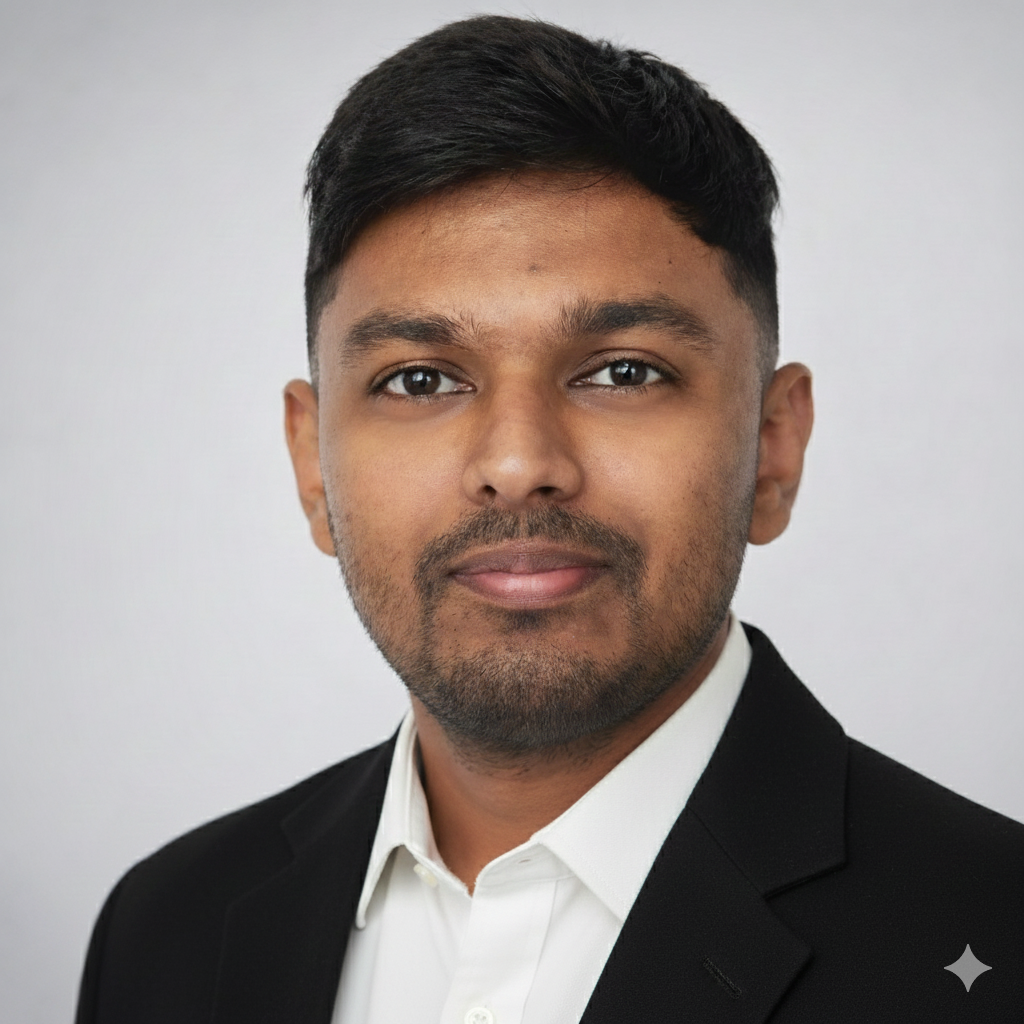
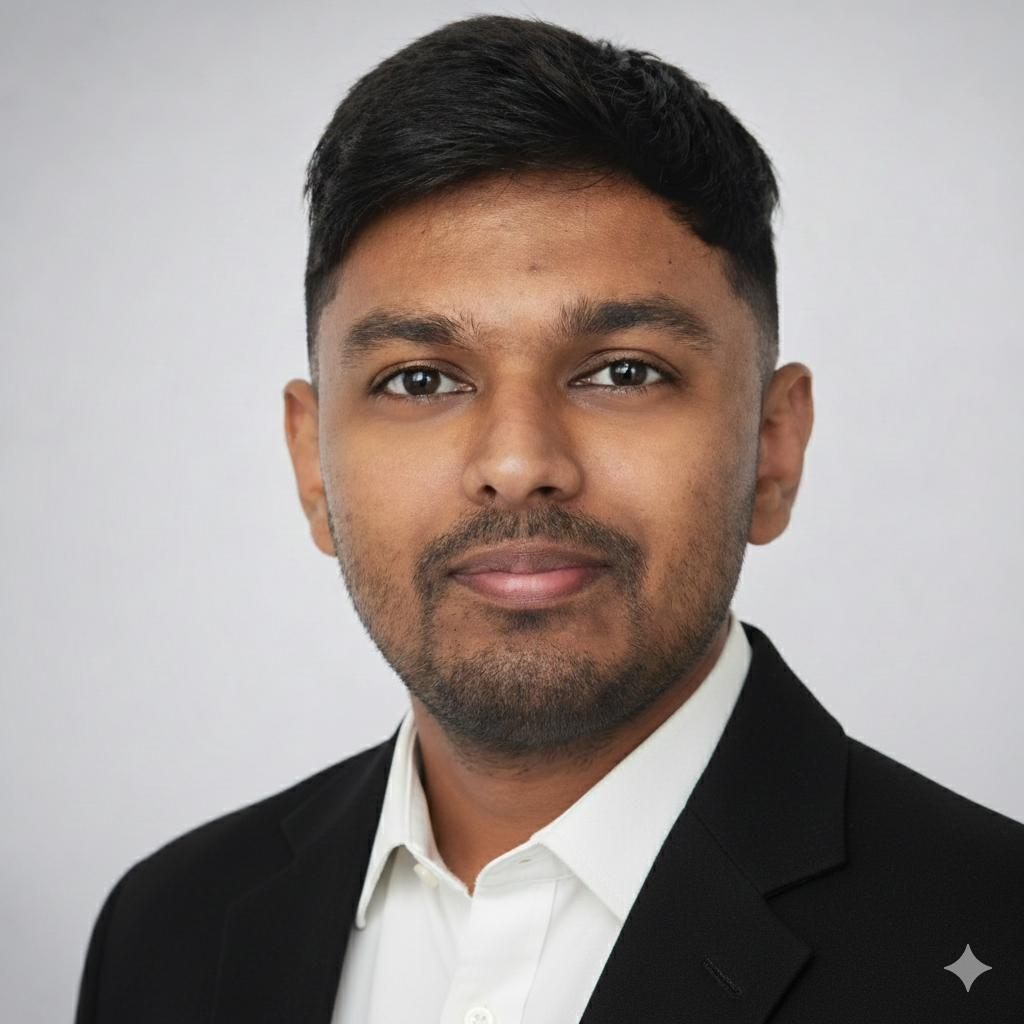
Add files via upload

diff --git a/index.html b/index.html
@@ -148,6 +148,39 @@ h3{font-family:'Spectral',serif;font-weight:600;font-size:1.35rem;line-height:1.
   background:var(--accent-soft);border-radius:0 6px 6px 0;
   font-size:.85rem;color:var(--muted);
 }
+.fig{
+  margin:20px 0 6px;border:1px solid var(--line);border-radius:8px;
+  background:#FBFCFE;padding:18px 16px 8px;overflow-x:auto;
+}
+.fig svg{display:block;margin:0 auto;max-width:100%;height:auto}
+.fig .cap{
+  font-family:'IBM Plex Mono',monospace;font-size:.7rem;color:var(--muted);
+  text-align:center;padding:10px 6px 6px;letter-spacing:.03em;
+}
+.photo-slot{
+  margin:16px 0 4px;border:1.5px dashed var(--accent-2);border-radius:8px;
+  min-height:70px;display:flex;align-items:center;justify-content:center;
+  background:var(--accent-soft);position:relative;overflow:hidden;
+}
+.photo-slot img{width:100%;display:block;border-radius:7px}
+.photo-slot .hint{
+  font-family:'IBM Plex Mono',monospace;font-size:.7rem;color:var(--accent);
+  text-align:center;padding:16px;
+}
+.photo-slot img[data-loaded]~.hint{display:none}
+.imgrow{display:grid;grid-template-columns:1fr 1fr;gap:14px;margin:18px 0 6px}
+.imgrow.tri{grid-template-columns:1fr 1fr 1fr}
+.imgrow figure{margin:0;border:1px solid var(--line);border-radius:8px;overflow:hidden;background:#fff}
+.imgrow img{width:100%;height:190px;object-fit:cover;display:block}
+.imgrow figcaption{
+  font-family:'IBM Plex Mono',monospace;font-size:.68rem;color:var(--muted);
+  padding:8px 10px;border-top:1px solid var(--line);
+}
+@media (max-width:820px){.imgrow,.imgrow.tri{grid-template-columns:1fr}}
+.svg-lbl{font-family:'IBM Plex Mono',monospace;font-size:11px;fill:#5A6472}
+.svg-lbl-a{font-family:'IBM Plex Mono',monospace;font-size:11px;fill:#3D4EC9}
+.svg-box{fill:#fff;stroke:#D9DDE4;stroke-width:1.5;rx:6}
+.svg-box-a{fill:#E8EAFB;stroke:#3D4EC9;stroke-width:1.5;rx:6}
 .mini-grid{display:grid;grid-template-columns:1fr 1fr;gap:20px;margin-top:8px}
 .mini{
   background:var(--card);border:1px solid var(--line);border-radius:var(--radius);
@@ -299,6 +332,74 @@ footer{
            alignment with tilt control, active thermal management under the sensor, and integration into
            an industrial production control platform.</p>
 
+        <div class="fig">
+          <svg viewBox="0 0 640 240" role="img" aria-label="Schematic of the dual-illumination test bench concept">
+            <!-- telecentric source -->
+            <rect x="20" y="80" width="110" height="44" class="svg-box"/>
+            <text x="75" y="99" text-anchor="middle" class="svg-lbl">Telecentric</text>
+            <text x="75" y="113" text-anchor="middle" class="svg-lbl">illuminator</text>
+            <!-- collimated beam -->
+            <line x1="130" y1="92" x2="330" y2="92" stroke="#3D4EC9" stroke-width="2"/>
+            <line x1="130" y1="102" x2="330" y2="102" stroke="#3D4EC9" stroke-width="2"/>
+            <line x1="130" y1="112" x2="330" y2="112" stroke="#3D4EC9" stroke-width="2"/>
+            <!-- 45 deg mirror -->
+            <line x1="315" y1="70" x2="365" y2="130" stroke="#12161C" stroke-width="4"/>
+            <text x="392" y="72" text-anchor="middle" class="svg-lbl">45° mirror</text>
+            <!-- redirected beam down -->
+            <line x1="330" y1="100" x2="330" y2="185" stroke="#3D4EC9" stroke-width="2"/>
+            <line x1="340" y1="108" x2="340" y2="185" stroke="#3D4EC9" stroke-width="2"/>
+            <line x1="350" y1="118" x2="350" y2="185" stroke="#3D4EC9" stroke-width="2"/>
+            <!-- dome -->
+            <path d="M 220 190 A 120 120 0 0 1 460 190" fill="none" stroke="#7A8AF0" stroke-width="5"/>
+            <text x="480" y="120" class="svg-lbl-a">LED dome</text>
+            <text x="480" y="134" class="svg-lbl-a">(uniform field)</text>
+            <!-- dome aperture -->
+            <line x1="318" y1="70" x2="362" y2="70" stroke="#FBFCFE" stroke-width="8"/>
+            <!-- sensor -->
+            <rect x="295" y="188" width="90" height="14" fill="#12161C" rx="2"/>
+            <text x="340" y="222" text-anchor="middle" class="svg-lbl">image sensor (bare die, cooled mount)</text>
+            <!-- stage -->
+            <rect x="255" y="204" width="170" height="8" fill="#D9DDE4" rx="2"/>
+            <text x="120" y="180" class="svg-lbl">multi-axis alignment</text>
+            <text x="120" y="194" class="svg-lbl">+ tilt control</text>
+            <line x1="212" y1="188" x2="250" y2="200" stroke="#5A6472" stroke-width="1" marker-end="none"/>
+          </svg>
+          <div class="cap">Fig. 1 · Concept schematic (original drawing): co-aligned dome and telecentric illumination sharing one optical axis, switchable without repositioning the sensor</div>
+        </div>
+
+        <div class="fig">
+          <svg viewBox="0 0 660 150" role="img" aria-label="EMVA 1288 processing pipeline">
+            <rect x="10" y="20" width="100" height="52" class="svg-box"/>
+            <text x="60" y="42" text-anchor="middle" class="svg-lbl">Dark / flat-field</text>
+            <text x="60" y="56" text-anchor="middle" class="svg-lbl">acquisition</text>
+            <line x1="110" y1="46" x2="138" y2="46" stroke="#5A6472" stroke-width="1.5"/>
+            <rect x="140" y="20" width="100" height="52" class="svg-box"/>
+            <text x="190" y="42" text-anchor="middle" class="svg-lbl">Photon transfer</text>
+            <text x="190" y="56" text-anchor="middle" class="svg-lbl">curve fit</text>
+            <line x1="240" y1="46" x2="268" y2="46" stroke="#5A6472" stroke-width="1.5"/>
+            <rect x="270" y="20" width="100" height="52" class="svg-box"/>
+            <text x="320" y="38" text-anchor="middle" class="svg-lbl">Gain · QE · SNR</text>
+            <text x="320" y="52" text-anchor="middle" class="svg-lbl">dyn. range</text>
+            <text x="320" y="66" text-anchor="middle" class="svg-lbl">linearity</text>
+            <line x1="370" y1="46" x2="398" y2="46" stroke="#5A6472" stroke-width="1.5"/>
+            <rect x="400" y="20" width="100" height="52" class="svg-box"/>
+            <text x="450" y="42" text-anchor="middle" class="svg-lbl">DSNU / PRNU</text>
+            <text x="450" y="56" text-anchor="middle" class="svg-lbl">decomposition</text>
+            <line x1="500" y1="46" x2="528" y2="46" stroke="#5A6472" stroke-width="1.5"/>
+            <rect x="530" y="20" width="118" height="52" class="svg-box-a"/>
+            <text x="589" y="38" text-anchor="middle" class="svg-lbl-a">Defect &amp; particle</text>
+            <text x="589" y="52" text-anchor="middle" class="svg-lbl-a">maps</text>
+            <text x="589" y="66" text-anchor="middle" class="svg-lbl-a">(MAD · Z-score)</text>
+            <text x="330" y="110" text-anchor="middle" class="svg-lbl">Python · NumPy vectorized · traceable to EMVA 1288 Release 4.0 · automated plot generation</text>
+          </svg>
+          <div class="cap">Fig. 2 · Evaluation pipeline from raw frames to standardized metrics and defect maps</div>
+        </div>
+
+        <div class="photo-slot">
+          <img src="img/thesis-setup.jpg" alt="Photo of the dual-illumination test bench" onerror="this.remove()">
+          <div class="hint">PHOTO SLOT · add img/thesis-setup.jpg once cleared by ficonTEC</div>
+        </div>
+
         <span class="lbl">What I built</span>
         <p>A Python-based EMVA 1288 evaluation pipeline covering photon transfer analysis, system gain,
            quantum efficiency, temporal noise, SNR, dynamic range, linearity, and DSNU/PRNU decomposition,
@@ -332,6 +433,36 @@ footer{
            image quality to alignment corrections. Built and tested opto-mechanical setups hands-on
            and worked directly on ficonTEC's production control platform, bridging alignment theory
            and machine-level implementation.</p>
+        <div class="fig">
+          <svg viewBox="0 0 640 190" role="img" aria-label="Active alignment concept loop">
+            <!-- target -->
+            <rect x="30" y="20" width="120" height="40" class="svg-box"/>
+            <text x="90" y="37" text-anchor="middle" class="svg-lbl">Test pattern /</text>
+            <text x="90" y="51" text-anchor="middle" class="svg-lbl">diffractive target</text>
+            <line x1="90" y1="60" x2="90" y2="88" stroke="#3D4EC9" stroke-width="2"/>
+            <!-- lens -->
+            <ellipse cx="90" cy="98" rx="34" ry="10" fill="#E8EAFB" stroke="#3D4EC9" stroke-width="1.5"/>
+            <text x="140" y="102" class="svg-lbl">lens module</text>
+            <line x1="90" y1="108" x2="90" y2="132" stroke="#3D4EC9" stroke-width="2"/>
+            <!-- sensor -->
+            <rect x="52" y="134" width="76" height="12" fill="#12161C" rx="2"/>
+            <text x="90" y="168" text-anchor="middle" class="svg-lbl">image sensor</text>
+            <!-- image quality -->
+            <line x1="130" y1="140" x2="228" y2="140" stroke="#5A6472" stroke-width="1.5"/>
+            <rect x="230" y="112" width="130" height="52" class="svg-box"/>
+            <text x="295" y="132" text-anchor="middle" class="svg-lbl">Image-quality</text>
+            <text x="295" y="146" text-anchor="middle" class="svg-lbl">metrics per field</text>
+            <line x1="360" y1="138" x2="428" y2="138" stroke="#5A6472" stroke-width="1.5"/>
+            <rect x="430" y="112" width="130" height="52" class="svg-box-a"/>
+            <text x="495" y="132" text-anchor="middle" class="svg-lbl-a">Alignment model</text>
+            <text x="495" y="146" text-anchor="middle" class="svg-lbl-a">(math. correction)</text>
+            <!-- feedback -->
+            <path d="M 495 110 L 495 50 L 200 50" fill="none" stroke="#3D4EC9" stroke-width="1.5" stroke-dasharray="5 4"/>
+            <path d="M 205 45 L 195 50 L 205 55 Z" fill="#3D4EC9"/>
+            <text x="350" y="42" text-anchor="middle" class="svg-lbl-a">multi-axis correction (x·y·z·θ) → re-measure</text>
+          </svg>
+          <div class="cap">Fig. 5 · Active alignment loop concept: measure image quality, compute correction, actuate, repeat</div>
+        </div>
         <div class="nda">Internal R&amp;D project; described at the concept level without proprietary implementation details.</div>
       </div>
     </article>
@@ -357,6 +488,67 @@ footer{
         <p>Assembled and aligned interferometer optics, laser sources, and fiber components, and
            integrated detection electronics into the prototype signal path, including DAQ-based
            acquisition of interference signals.</p>
+
+        <div class="fig">
+          <svg viewBox="0 0 640 200" role="img" aria-label="Swept-source OCT interferometer schematic">
+            <rect x="15" y="70" width="105" height="46" class="svg-box"/>
+            <text x="67" y="90" text-anchor="middle" class="svg-lbl">Swept-source</text>
+            <text x="67" y="104" text-anchor="middle" class="svg-lbl">laser + k-clock</text>
+            <line x1="120" y1="93" x2="215" y2="93" stroke="#3D4EC9" stroke-width="2"/>
+            <!-- coupler -->
+            <circle cx="240" cy="93" r="24" fill="#E8EAFB" stroke="#3D4EC9" stroke-width="1.5"/>
+            <text x="240" y="97" text-anchor="middle" class="svg-lbl-a">coupler</text>
+            <!-- reference arm -->
+            <line x1="240" y1="69" x2="240" y2="30" stroke="#3D4EC9" stroke-width="2"/>
+            <line x1="220" y1="28" x2="260" y2="28" stroke="#12161C" stroke-width="4"/>
+            <text x="278" y="32" class="svg-lbl">reference mirror</text>
+            <!-- sample arm -->
+            <line x1="264" y1="93" x2="360" y2="93" stroke="#3D4EC9" stroke-width="2"/>
+            <rect x="362" y="70" width="110" height="46" class="svg-box"/>
+            <text x="417" y="90" text-anchor="middle" class="svg-lbl">microscope +</text>
+            <text x="417" y="104" text-anchor="middle" class="svg-lbl">scanner → eye</text>
+            <!-- detection -->
+            <line x1="240" y1="117" x2="240" y2="150" stroke="#3D4EC9" stroke-width="2"/>
+            <rect x="180" y="152" width="120" height="40" class="svg-box"/>
+            <text x="240" y="169" text-anchor="middle" class="svg-lbl">balanced detector</text>
+            <text x="240" y="183" text-anchor="middle" class="svg-lbl">→ DAQ</text>
+            <line x1="300" y1="172" x2="360" y2="172" stroke="#5A6472" stroke-width="1.5"/>
+            <rect x="362" y="152" width="120" height="40" class="svg-box-a"/>
+            <text x="422" y="169" text-anchor="middle" class="svg-lbl-a">reconstruction</text>
+            <text x="422" y="183" text-anchor="middle" class="svg-lbl-a">pipeline (below)</text>
+            <text x="540" y="100" class="svg-lbl">fiber-based</text>
+            <text x="540" y="114" class="svg-lbl">interferometer</text>
+          </svg>
+          <div class="cap">Fig. 3 · SS-OCT system concept (original drawing): fiber interferometer with k-clock referenced acquisition</div>
+        </div>
+
+        <div class="fig">
+          <svg viewBox="0 0 660 120" role="img" aria-label="OCT signal processing chain">
+            <rect x="8" y="30" width="92" height="46" class="svg-box"/>
+            <text x="54" y="49" text-anchor="middle" class="svg-lbl">Background</text>
+            <text x="54" y="63" text-anchor="middle" class="svg-lbl">subtraction</text>
+            <line x1="100" y1="53" x2="116" y2="53" stroke="#5A6472" stroke-width="1.5"/>
+            <rect x="118" y="30" width="92" height="46" class="svg-box"/>
+            <text x="164" y="49" text-anchor="middle" class="svg-lbl">k-space</text>
+            <text x="164" y="63" text-anchor="middle" class="svg-lbl">resampling</text>
+            <line x1="210" y1="53" x2="226" y2="53" stroke="#5A6472" stroke-width="1.5"/>
+            <rect x="228" y="30" width="92" height="46" class="svg-box"/>
+            <text x="274" y="56" text-anchor="middle" class="svg-lbl">Windowing</text>
+            <line x1="320" y1="53" x2="336" y2="53" stroke="#5A6472" stroke-width="1.5"/>
+            <rect x="338" y="30" width="102" height="46" class="svg-box-a"/>
+            <text x="389" y="49" text-anchor="middle" class="svg-lbl-a">Dispersion</text>
+            <text x="389" y="63" text-anchor="middle" class="svg-lbl-a">compensation</text>
+            <line x1="440" y1="53" x2="456" y2="53" stroke="#5A6472" stroke-width="1.5"/>
+            <rect x="458" y="30" width="70" height="46" class="svg-box"/>
+            <text x="493" y="56" text-anchor="middle" class="svg-lbl">FFT</text>
+            <line x1="528" y1="53" x2="544" y2="53" stroke="#5A6472" stroke-width="1.5"/>
+            <rect x="546" y="30" width="104" height="46" class="svg-box"/>
+            <text x="598" y="49" text-anchor="middle" class="svg-lbl">A / B / C-scan</text>
+            <text x="598" y="63" text-anchor="middle" class="svg-lbl">visualization</text>
+            <text x="330" y="104" text-anchor="middle" class="svg-lbl">dispersion phase e^(i(C₂φ² + C₃φ³)) · coefficients optimized by coarse-to-fine search on PSF width</text>
+          </svg>
+          <div class="cap">Fig. 4 · Reconstruction chain I implemented, from raw interference signal to volumetric scans</div>
+        </div>
 
         <span class="lbl">Signal processing</span>
         <p>Implemented the full OCT reconstruction chain in software: background subtraction, k-space
@@ -385,6 +577,59 @@ footer{
            uniformly across all mushroom bags. Modeled in SolidWorks, built as a working prototype with a
            relay-based drive circuit, and validated by psychrometric analysis reaching the target 85% RH.
            The design eliminates chemical treatment while cutting labor and cost.</p>
+        <div class="fig">
+          <svg viewBox="0 0 640 170" role="img" aria-label="Linear motion humidifier mechanism">
+            <!-- tank -->
+            <rect x="20" y="40" width="120" height="80" class="svg-box"/>
+            <text x="80" y="70" text-anchor="middle" class="svg-lbl">Ultrasonic tank</text>
+            <text x="80" y="84" text-anchor="middle" class="svg-lbl">+ blower fan</text>
+            <text x="80" y="98" text-anchor="middle" class="svg-lbl">(~32 µm mist)</text>
+            <!-- flex pipe -->
+            <path d="M 140 70 C 190 70 200 55 250 55" fill="none" stroke="#7A8AF0" stroke-width="6"/>
+            <text x="195" y="42" text-anchor="middle" class="svg-lbl">flex pipe</text>
+            <!-- lead screw -->
+            <line x1="250" y1="55" x2="560" y2="55" stroke="#12161C" stroke-width="3"/>
+            <g stroke="#12161C" stroke-width="1">
+              <line x1="260" y1="49" x2="260" y2="61"/><line x1="280" y1="49" x2="280" y2="61"/>
+              <line x1="300" y1="49" x2="300" y2="61"/><line x1="320" y1="49" x2="320" y2="61"/>
+              <line x1="340" y1="49" x2="340" y2="61"/><line x1="360" y1="49" x2="360" y2="61"/>
+              <line x1="380" y1="49" x2="380" y2="61"/><line x1="400" y1="49" x2="400" y2="61"/>
+              <line x1="420" y1="49" x2="420" y2="61"/><line x1="440" y1="49" x2="440" y2="61"/>
+              <line x1="460" y1="49" x2="460" y2="61"/><line x1="480" y1="49" x2="480" y2="61"/>
+              <line x1="500" y1="49" x2="500" y2="61"/><line x1="520" y1="49" x2="520" y2="61"/>
+            </g>
+            <text x="405" y="32" text-anchor="middle" class="svg-lbl">lead screw · 12V gear motor · relay reversal</text>
+            <!-- nut + outlet -->
+            <rect x="330" y="46" width="30" height="18" class="svg-box-a"/>
+            <line x1="345" y1="64" x2="345" y2="92" stroke="#3D4EC9" stroke-width="4"/>
+            <!-- mist -->
+            <g fill="#7A8AF0" opacity=".7">
+              <circle cx="335" cy="102" r="3"/><circle cx="345" cy="108" r="3"/><circle cx="355" cy="102" r="3"/>
+              <circle cx="330" cy="114" r="2.5"/><circle cx="350" cy="118" r="2.5"/><circle cx="360" cy="112" r="2.5"/>
+            </g>
+            <path d="M 300 60 L 285 60 M 390 60 L 405 60" stroke="#3D4EC9" stroke-width="1.5"/>
+            <text x="470" y="100" class="svg-lbl-a">traversing outlet ⇄</text>
+            <!-- bags -->
+            <g class="svg-lbl">
+              <rect x="240" y="128" width="44" height="26" rx="6" fill="#fff" stroke="#D9DDE4" stroke-width="1.5"/>
+              <rect x="300" y="128" width="44" height="26" rx="6" fill="#fff" stroke="#D9DDE4" stroke-width="1.5"/>
+              <rect x="360" y="128" width="44" height="26" rx="6" fill="#fff" stroke="#D9DDE4" stroke-width="1.5"/>
+              <rect x="420" y="128" width="44" height="26" rx="6" fill="#fff" stroke="#D9DDE4" stroke-width="1.5"/>
+            </g>
+            <text x="352" y="167" text-anchor="middle" class="svg-lbl">mushroom bags · uniform 80–95% RH</text>
+          </svg>
+          <div class="cap">Fig. 6 · Mechanism: lead screw converts rotary to linear motion, sweeping mist uniformly along the rack</div>
+        </div>
+        <div class="imgrow">
+          <figure>
+            <img src="img/humidifier-model.jpg" alt="Isometric SolidWorks model of the linear motion humidifier" loading="lazy">
+            <figcaption>SolidWorks model of the humidifier with lead screw traversal (from our ICCET 2022 paper)</figcaption>
+          </figure>
+          <figure>
+            <img src="img/humidifier-circuit.png" alt="Relay drive circuit diagram of the humidifier" loading="lazy">
+            <figcaption>Relay-based drive circuit for forward/reverse motor traversal</figcaption>
+          </figure>
+        </div>
       </div>
     </article>
 
@@ -405,6 +650,50 @@ footer{
            flexural loading (ASTM D790). The study quantified crash force efficiency and flexural strength
            of the welded joints and identified tool pin diameter as the limiting factor for weld integrity
            under bending, contributing to the sparse literature on FSW of pipe geometries.</p>
+        <div class="fig">
+          <svg viewBox="0 0 640 180" role="img" aria-label="Friction stir welding of pipe and test methods">
+            <!-- tool -->
+            <rect x="120" y="18" width="36" height="40" fill="#12161C" rx="3"/>
+            <polygon points="130,58 146,58 138,74" fill="#12161C"/>
+            <text x="180" y="34" class="svg-lbl">rotating tool · 2000 rpm</text>
+            <text x="180" y="48" class="svg-lbl">taper cylindrical pin</text>
+            <path d="M 108 28 A 30 30 0 0 1 118 12" fill="none" stroke="#3D4EC9" stroke-width="2"/>
+            <path d="M 116 10 L 122 14 L 114 18 Z" fill="#3D4EC9"/>
+            <!-- pipe -->
+            <ellipse cx="60" cy="105" rx="16" ry="30" fill="#fff" stroke="#12161C" stroke-width="2.5"/>
+            <line x1="60" y1="75" x2="220" y2="75" stroke="#12161C" stroke-width="2.5"/>
+            <line x1="60" y1="135" x2="220" y2="135" stroke="#12161C" stroke-width="2.5"/>
+            <ellipse cx="220" cy="105" rx="16" ry="30" fill="#fff" stroke="#12161C" stroke-width="2.5"/>
+            <!-- weld line -->
+            <line x1="138" y1="76" x2="138" y2="134" stroke="#3D4EC9" stroke-width="3" stroke-dasharray="4 3"/>
+            <text x="140" y="160" text-anchor="middle" class="svg-lbl-a">weld seam · pipe rotated slowly on mandrel</text>
+            <text x="140" y="174" text-anchor="middle" class="svg-lbl">AA 6063 · Ø50 mm · t = 3 mm · vertical milling machine</text>
+            <!-- tests -->
+            <g>
+              <rect x="360" y="30" width="260" height="56" class="svg-box"/>
+              <text x="490" y="52" text-anchor="middle" class="svg-lbl">Crashworthiness · quasi-static axial crush</text>
+              <text x="490" y="68" text-anchor="middle" class="svg-lbl">(ASTM D3410) → crash force efficiency</text>
+              <rect x="360" y="100" width="260" height="56" class="svg-box"/>
+              <text x="490" y="122" text-anchor="middle" class="svg-lbl">Flexural · three-point bending on weldment</text>
+              <text x="490" y="138" text-anchor="middle" class="svg-lbl">(ASTM D790) → flexural strength</text>
+            </g>
+          </svg>
+          <div class="cap">Fig. 7 · Custom fixture concept and the two test programs applied to the welded joints</div>
+        </div>
+        <div class="imgrow tri">
+          <figure>
+            <img src="img/fsw-setup.jpg" alt="Friction stir welding setup on the vertical milling machine" loading="lazy">
+            <figcaption>Welding setup: FSW tool in the milling machine with mandrel-held pipe (from our paper)</figcaption>
+          </figure>
+          <figure>
+            <img src="img/fsw-samples.jpg" alt="Friction stir welded AA 6063 pipe samples" loading="lazy">
+            <figcaption>Welded AA 6063 pipe samples</figcaption>
+          </figure>
+          <figure>
+            <img src="img/fsw-crash-test.jpg" alt="Quasi-static axial crush test of the welded pipe" loading="lazy">
+            <figcaption>Quasi-static axial crush test of the welded joint</figcaption>
+          </figure>
+        </div>
       </div>
     </article>
 
@@ -421,6 +710,16 @@ footer{
         <p>Team project covering the full design cycle of an electric two-wheeler: frame design and CAE
            analysis, BLDC motor and battery selection, and vehicle integration, developed and presented
            for the national SAEISS competition.</p>
+        <div class="imgrow">
+          <figure>
+            <img src="img/ebike-cad.png" alt="CAD render of the ENVISION electric bike" loading="lazy">
+            <figcaption>CAD model of the ENVISION e-bike</figcaption>
+          </figure>
+          <figure>
+            <img src="img/ebike-built.png" alt="The built ENVISION electric bike prototype" loading="lazy">
+            <figcaption>The fabricated prototype</figcaption>
+          </figure>
+        </div>
       </div>
     </article>
 